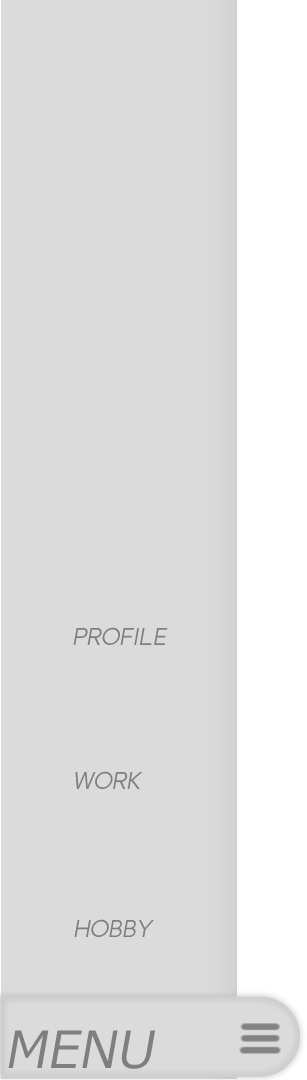
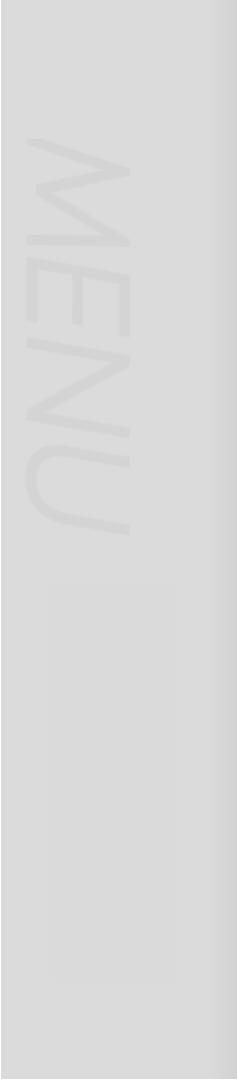
adjust01

diff --git a/PR_site_4228/prsite4228.html b/PR_site_4228/prsite4228.html
@@ -21,7 +21,7 @@
         /*ページトップ装飾div*/
 
         .top {
-            background-image: url("img/top0.png");
+            background-image: url("img/top.png");
             width: 100%;
             height: 81px;
             top: -31px;
@@ -47,7 +47,7 @@
         /*サイドメニューdiv*/
 
         #menu {
-            background-image: url(img/menu2.png);
+            background-image: url("img/menu.png");
             position: fixed;
             bottom: 0;
             left: -150px;
